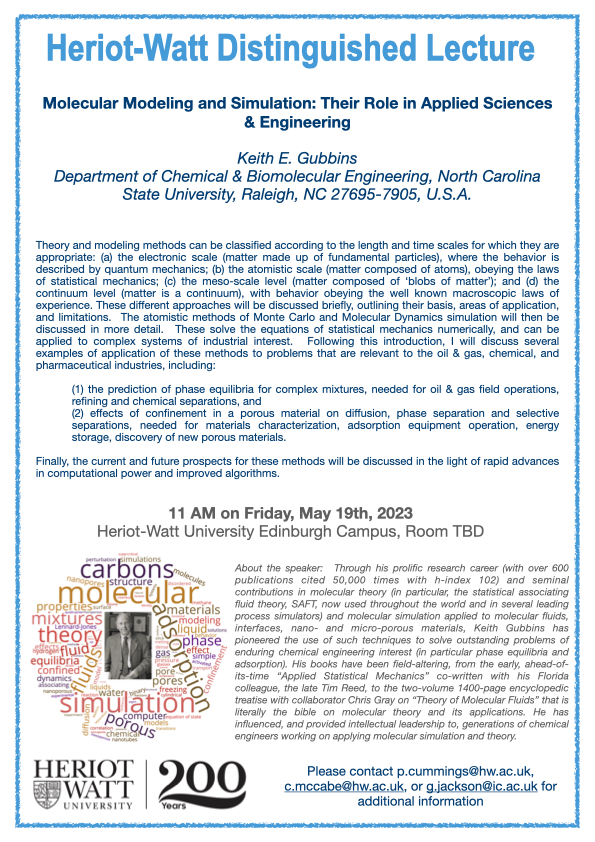
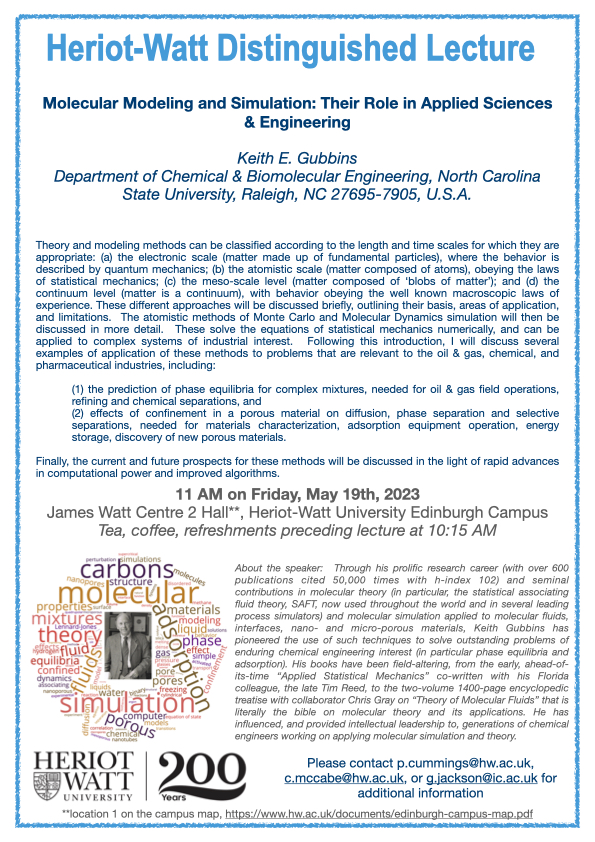
keg updates

Changed region(s): [[0.0605, 0.8955, 0.9378, 0.9881], [0.0908, 0.5558, 0.9378, 0.6485]]

diff --git a/_posts/2023-04-20-KEG1.md b/_posts/2023-04-20-KEG1.md
@@ -7,4 +7,6 @@ feature_image: "/assets/nobbys_beach.png"
 
 Keith Gubbins will be visiting Heriot-Watt University on May 19 to give a Distinguished Heriot-Watt Lecture. Preliminary details are available below. Over the next few weeks, return here to find the finalized details, including room location, and video streaming information. 
 
-{% include figure.html image="/assets/blog/gubbins-announce-v2.pdf" position="center" caption="Keith Gubbins Distinguished Lecture" width="600" %}
+{% include figure.html image="/assets/blog/gubbins-announce.001.jpg" position="center" caption="Keith Gubbins Distinguished Lecture" width="600" %}
+
+To view a clickable pdf version of this figure, visit https://petercummings.org/assets/blog/gubbins-announce-v2.pdf
